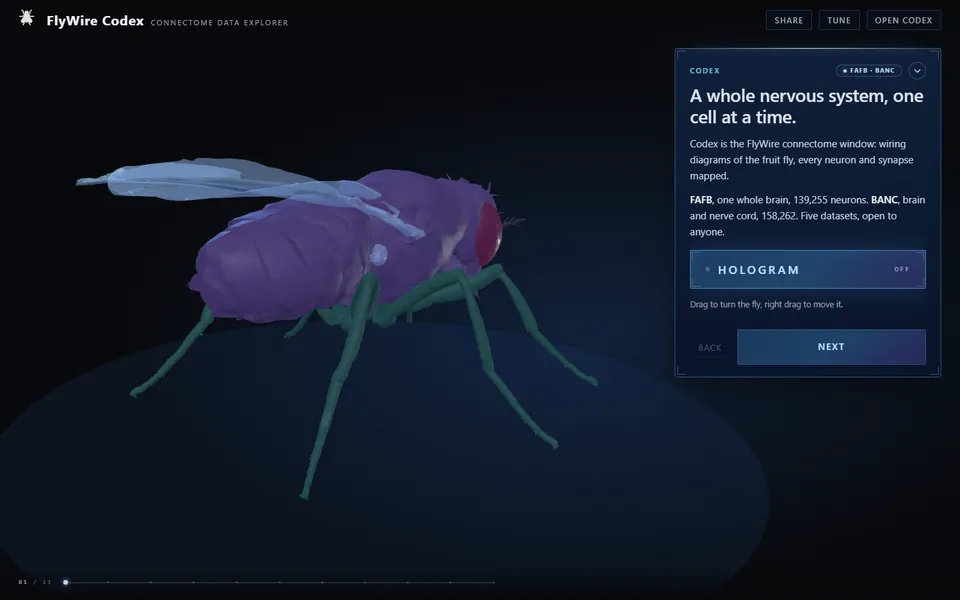
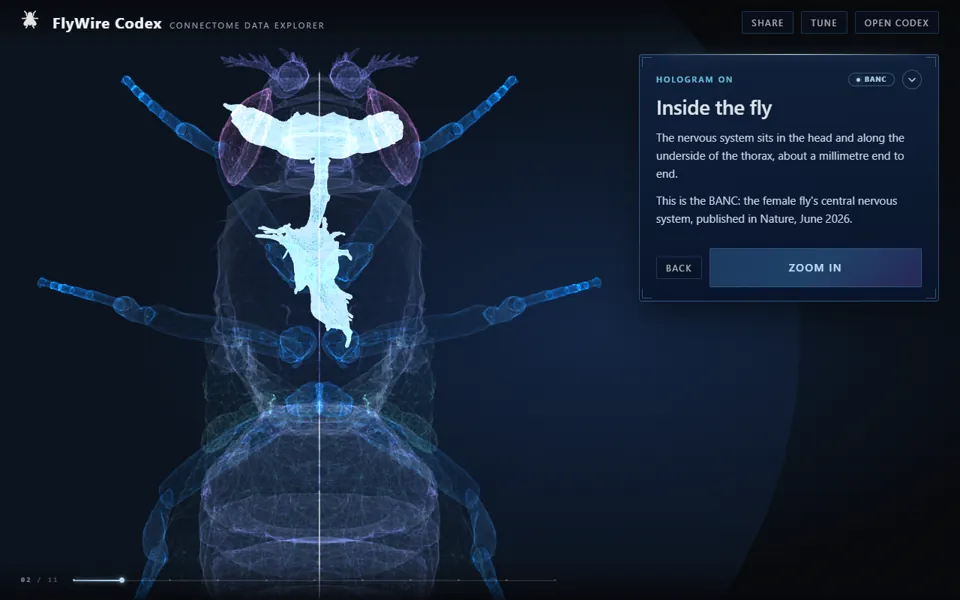
Renders card is Images and Animations; fly card shows slide 2
Ames's wording: "Images and Animations", and "Figures and videos for
connectomics papers". The fly card's screenshot was slide 1; it now
shows slide 2, where the player and link (/fly/#2) open.

diff --git a/index.html b/index.html
@@ -111,8 +111,8 @@
       <img src="media/thumb/ca3-pyr-mossy-fibers.webp" alt="CA3 pyramidal cells in blue with mossy fiber axons in gold" loading="lazy" width="720" height="405">
       <div class="now-body">
         <p class="tag">Renders</p>
-        <h3>Pictures for papers</h3>
-        <p>Figures and animations for connectomics papers: CA3 in the hippocampus, the mouse retina with calcium imaging played back on it, MICrONS cortex, the BANC.</p>
+        <h3>Images and Animations</h3>
+        <p>Figures and videos for connectomics papers: CA3 in the hippocampus, the mouse retina with calcium imaging played back on it, MICrONS cortex, the BANC.</p>
         <p class="links"><button class="linkish" data-play="ca3">CA3</button><button class="linkish" data-play="retina">Retina</button><button class="linkish" data-play="microns">MICrONS</button></p>
       </div>
     </article>
